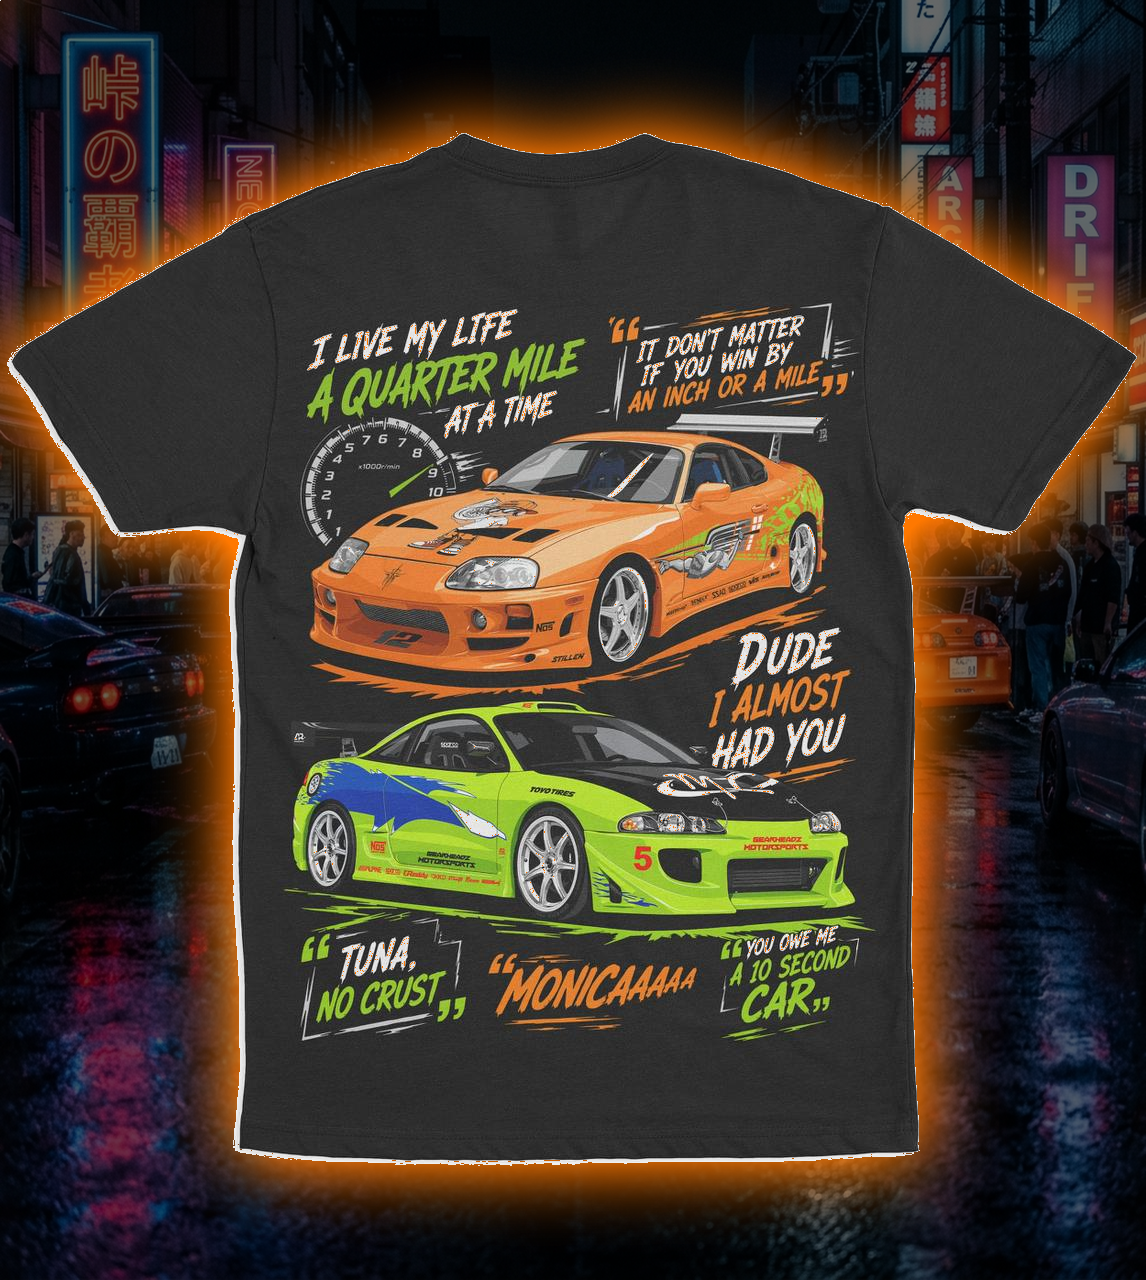
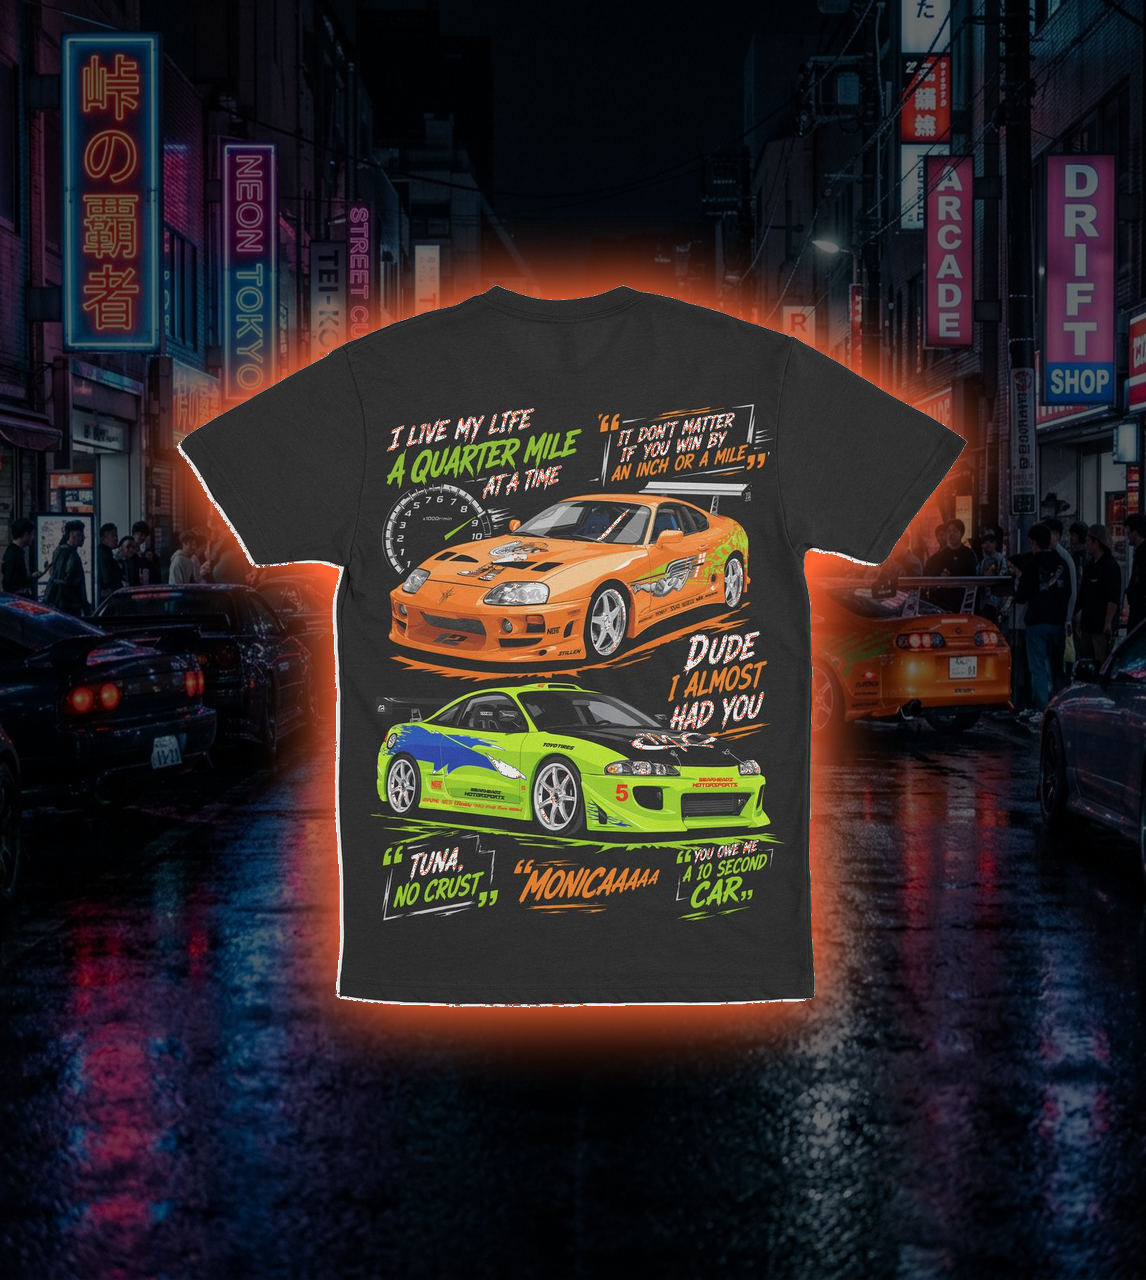
Fix size of NFS and Civic shirts, fix missing Firebase IDs

diff --git a/fix_fb_ids.js b/fix_fb_ids.js
@@ -1,0 +1,27 @@
+import { initializeApp, cert } from 'firebase-admin/app';
+import { getFirestore } from 'firebase-admin/firestore';
+import fs from 'fs';
+
+const serviceAccount = JSON.parse(fs.readFileSync('./gearheadzmotorsport-firebase-adminsdk-fbsvc-59eb5f7475.json', 'utf8'));
+initializeApp({ credential: cert(serviceAccount) });
+const db = getFirestore();
+
+async function fixDb() {
+    // 1. Get old docs
+    const doc1 = await db.collection('products').doc('hGGNP9Jiu6Q8cQO8oQ80').get();
+    const doc2 = await db.collection('products').doc('mPcFnuqHHJWxnzMRhyIz').get();
+    
+    // 2. Set new docs
+    if (doc1.exists) {
+        await db.collection('products').doc('p-honda-civic').set(doc1.data());
+        await db.collection('products').doc('hGGNP9Jiu6Q8cQO8oQ80').delete();
+    }
+    
+    if (doc2.exists) {
+        await db.collection('products').doc('p-need-speed').set(doc2.data());
+        await db.collection('products').doc('mPcFnuqHHJWxnzMRhyIz').delete();
+    }
+    console.log("Fixed document IDs!");
+}
+
+fixDb().catch(console.error);

diff --git a/check_fb_ids.js b/check_fb_ids.js
@@ -1,0 +1,19 @@
+import { initializeApp, cert } from 'firebase-admin/app';
+import { getFirestore } from 'firebase-admin/firestore';
+import fs from 'fs';
+
+const serviceAccount = JSON.parse(fs.readFileSync('./gearheadzmotorsport-firebase-adminsdk-fbsvc-59eb5f7475.json', 'utf8'));
+
+initializeApp({ credential: cert(serviceAccount) });
+
+const db = getFirestore();
+
+async function checkDb() {
+    const snap = await db.collection('products').get();
+    for (const doc of snap.docs) {
+        const data = doc.data();
+        console.log(`${doc.id}: ${data.name}`);
+    }
+}
+
+checkDb().catch(console.error);
